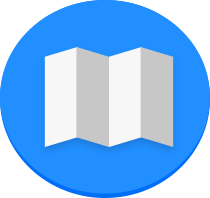
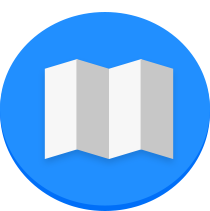
Fixed some assets from the new pause menu.

diff --git a/core/src/mx/itesm/sheep/MapScreen.java b/core/src/mx/itesm/sheep/MapScreen.java
@@ -1,0 +1,32 @@
+package mx.itesm.sheep;
+
+/**
+ * Created by josepablo on 11/4/17.
+ */
+
+public class MapScreen extends MainScreen {
+    @Override
+    public void show() {
+
+    }
+
+    @Override
+    public void render(float delta) {
+
+    }
+
+    @Override
+    public void pause() {
+
+    }
+
+    @Override
+    public void resume() {
+
+    }
+
+    @Override
+    public void dispose() {
+
+    }
+}
